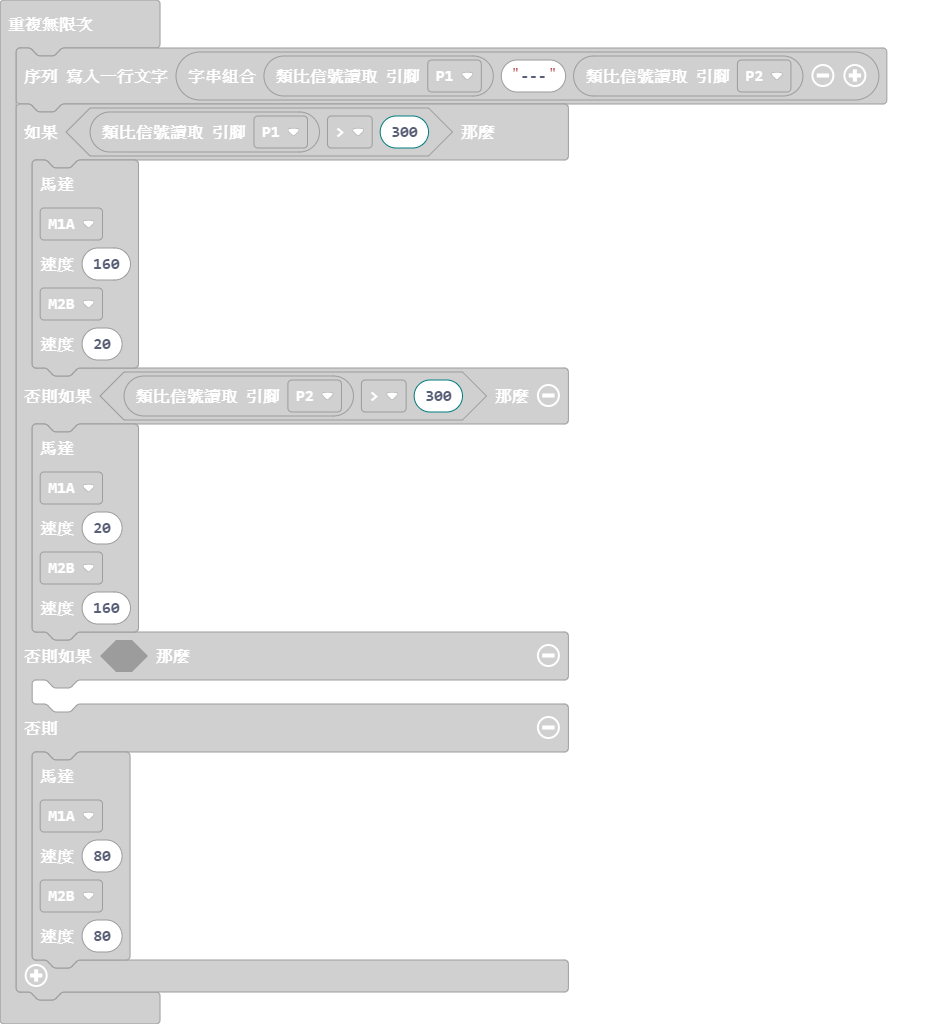
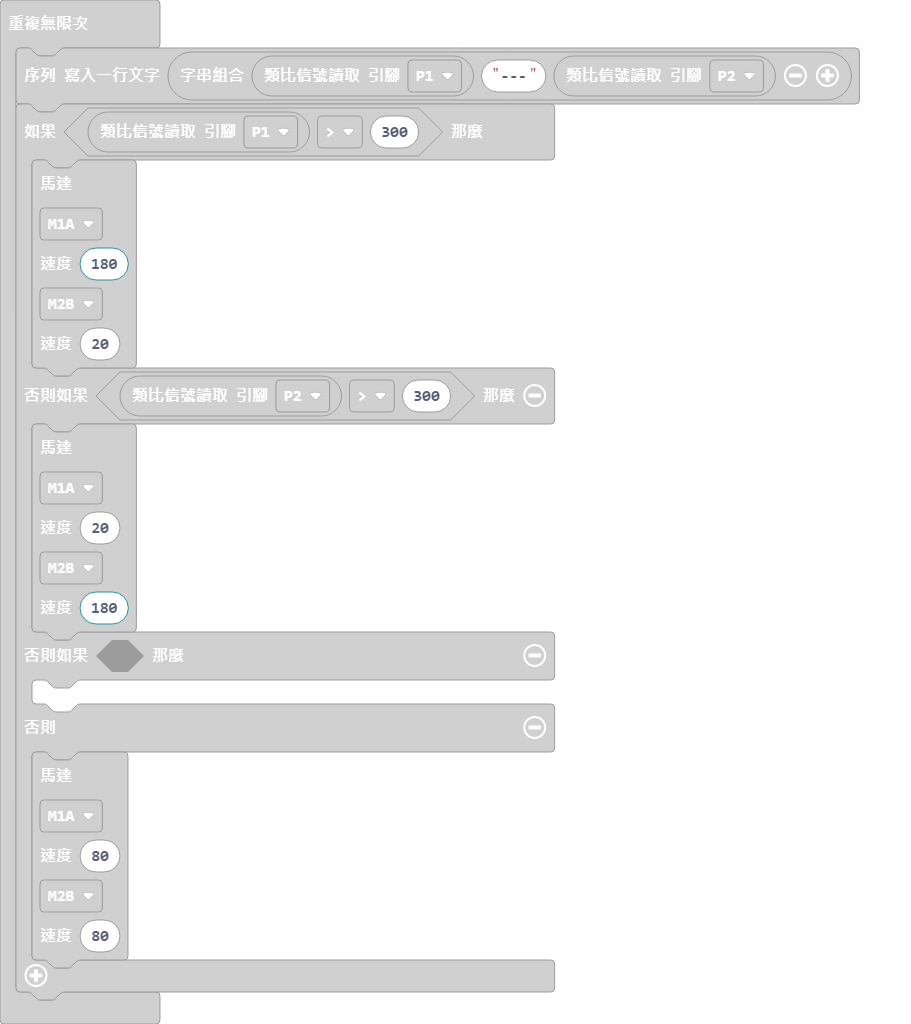
Update main.blocks, main.ts

diff --git a/main.ts b/main.ts
@@ -4,7 +4,7 @@ basic.forever(function () {
     if (pins.analogReadPin(AnalogPin.P1) > 300) {
         robotbit.MotorRunDual(
         robotbit.Motors.M1A,
-        160,
+        180,
         robotbit.Motors.M2B,
         20
         )
@@ -13,7 +13,7 @@ basic.forever(function () {
         robotbit.Motors.M1A,
         20,
         robotbit.Motors.M2B,
-        160
+        180
         )
     } else if (false) {
     	
